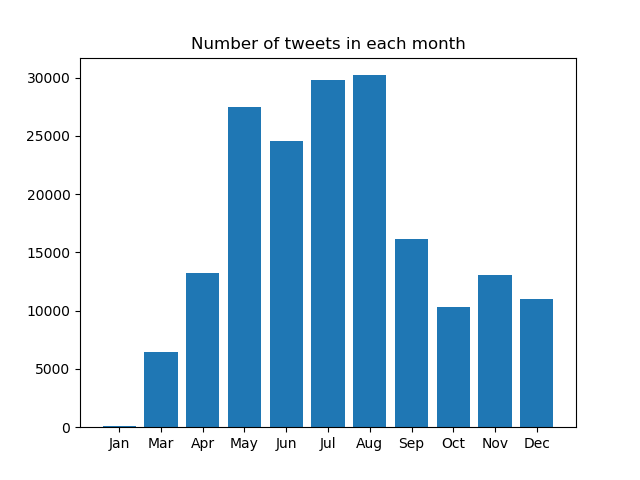
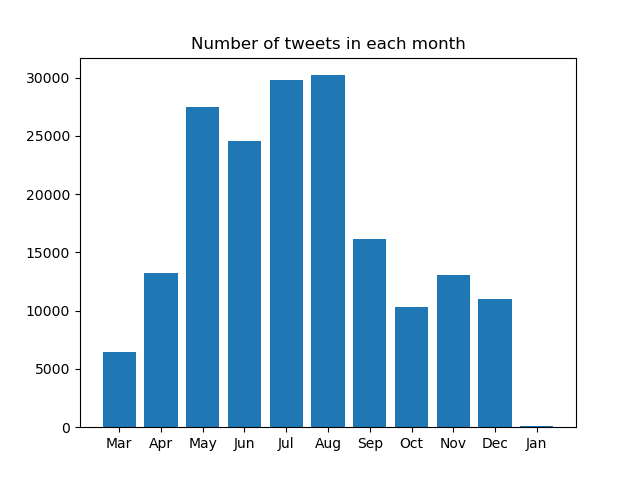
plot überarbeitet Januar aufende verschoben

diff --git a/src/vis.py b/src/vis.py
@@ -46,8 +46,8 @@ fig.savefig('data/Plots/Number_of_tweets_in_each_country.png')
 
 
 Number_Tweets_Each_Month = All_Tweets.groupby(['MONTH']).size().reset_index(name='counts')
-months = ["Jan", "Feb", "Mar", "Apr", "May", "Jun",
-          "Jul", "Aug", "Sep", "Oct", "Nov", "Dec"]
+months = [ "Feb", "Mar", "Apr", "May", "Jun",
+          "Jul", "Aug", "Sep", "Oct", "Nov", "Dec","Jan"]
 # sort the data by months
 Number_Tweets_Each_Month['MONTH'] = pd.Categorical(Number_Tweets_Each_Month['MONTH'], categories=months, ordered=True)
 Number_Tweets_Each_Month.sort_values(by='MONTH', inplace=True)
